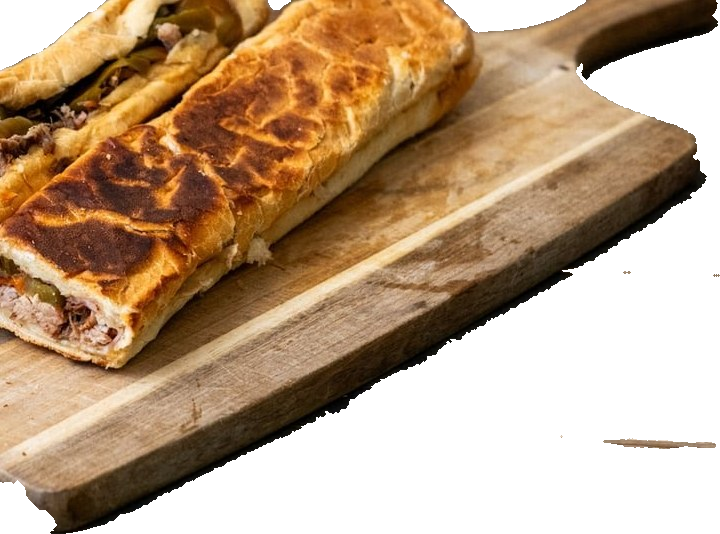
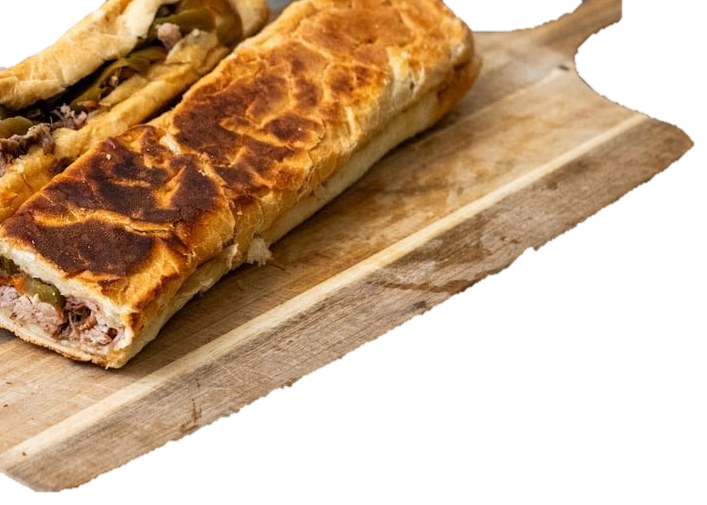
Clean the food cutouts and drop listing labels.
Rebuild the plate, board, and tray masks from the original photos so the edges stay soft and the plate and board are no longer clipped. Keep the credits in the source notes, and take the marketplace names off the page.

diff --git a/index.html b/index.html
@@ -44,11 +44,11 @@
           </div>
           <p class="hours">Call for today's hours and availability.</p>
         </div>
-        <a class="cut hero-pastry enlarge" href="photos/pastry-plate.png" data-full="photos/pastry-plate.png" data-w="1088" data-cap="Fried pastry on a blue plate. DoorDash listing photo.">
-          <img src="photos/pastry-plate.png" width="1088" height="601" alt="A fried pastry on a blue-and-white plate, cut out from the gray table.">
+        <a class="cut hero-pastry enlarge" href="photos/pastry-plate.png" data-full="photos/pastry-plate.png" data-w="1088" data-cap="Fried pastry on a blue plate.">
+          <img src="photos/pastry-plate.png" width="1088" height="601" alt="A fried pastry on a blue-and-white plate.">
         </a>
-        <a class="cut hero-board enlarge" href="photos/sandwich-board.png" data-full="photos/sandwich-board.png" data-w="720" data-cap="Toasted sandwich on a wooden board. DoorDash listing photo.">
-          <img src="photos/sandwich-board.png" width="720" height="534" alt="A toasted sandwich on a wooden board, cut out from the gray table.">
+        <a class="cut hero-board enlarge" href="photos/sandwich-board.png" data-full="photos/sandwich-board.png" data-w="707" data-cap="Toasted sandwich on a wooden board.">
+          <img src="photos/sandwich-board.png" width="707" height="505" alt="A toasted sandwich on a wooden board.">
         </a>
       </div>
       <img class="edge" src="assets/tear-cream.png" alt="">
@@ -60,33 +60,29 @@
       <a class="rect call" href="tel:+16103719767">Call the store</a>
     </section>
 
-    <section class="gold" aria-label="Food from the listing">
+    <section class="gold" aria-label="Food">
       <img class="brush" src="assets/brush-gold.png" alt="">
       <div class="floats">
-        <img class="float f-sand" src="photos/sandwich-board.png" width="720" height="534" alt="">
+        <img class="float f-sand" src="photos/sandwich-board.png" width="707" height="505" alt="">
         <img class="float f-pastry" src="photos/pastry-plate.png" width="1088" height="601" alt="">
-        <img class="float f-tray" src="photos/fries-tray.png" width="726" height="432" alt="A foil tray of fries with fried pieces and lime wedges, cut out from the gray table.">
+        <img class="float f-tray" src="photos/fries-tray.png" width="659" height="417" alt="A foil tray of fries with fried pieces and lime wedges.">
       </div>
     </section>
 
     <section class="shelf">
-      <p class="shelf-kicker">Listing photos</p>
       <h2>Santa Rita</h2>
       <div class="cards">
-        <a class="card enlarge" href="photos/pastelito-plate-doordash.jpg" data-full="photos/pastelito-plate-doordash.webp" data-w="1186" data-cap="Fried pastry. DoorDash listing photo.">
-          <img src="photos/pastelito-plate-doordash.jpg" width="1186" height="664" alt="">
+        <a class="card enlarge" href="photos/pastry-plate.png" data-full="photos/pastry-plate.png" data-w="1088" data-cap="Fried pastry on a blue plate.">
+          <img src="photos/card-pastry.png" width="300" height="300" alt="">
           <strong>Fried pastry</strong>
-          <span>DoorDash</span>
         </a>
-        <a class="card enlarge" href="photos/grilled-sandwich-board-doordash.jpg" data-full="photos/grilled-sandwich-board-doordash.webp" data-w="732" data-cap="Toasted sandwich. DoorDash listing photo.">
-          <img src="photos/grilled-sandwich-board-doordash.jpg" width="732" height="540" alt="">
+        <a class="card enlarge" href="photos/sandwich-board.png" data-full="photos/sandwich-board.png" data-w="707" data-cap="Toasted sandwich on a wooden board.">
+          <img src="photos/card-sandwich.png" width="313" height="313" alt="">
           <strong>Toasted sandwich</strong>
-          <span>DoorDash</span>
         </a>
-        <a class="card enlarge" href="photos/combo-platter-ubereats.jpg" data-full="photos/combo-platter-ubereats.webp" data-w="789" data-cap="Fries and lime. Uber Eats listing photo.">
-          <img src="photos/combo-platter-ubereats.jpg" width="789" height="432" alt="">
+        <a class="card enlarge" href="photos/fries-tray.png" data-full="photos/fries-tray.png" data-w="659" data-cap="Fries and lime.">
+          <img src="photos/card-fries.png" width="291" height="291" alt="">
           <strong>Fries and lime</strong>
-          <span>Uber Eats</span>
         </a>
       </div>
     </section>
@@ -107,14 +103,6 @@
       </div>
       <footer class="foot">
         <p>Santa Rita Grocery · <a class="call" href="tel:+16103719767">(610) 371-9767</a></p>
-        <details class="sources">
-          <summary>Photo sources</summary>
-          <ul>
-            <li>Storefront, July 2021: Madame, via Google Maps. The side sign in that photo includes a 24/7 line.</li>
-            <li>Fried pastry and toasted sandwich: DoorDash listing photos. Fries and lime: an Uber Eats listing photo. The gray table behind them was removed; the food itself was not redrawn.</li>
-            <li>These pictures are not a menu and not a promise of what is ready today. Call for today's hours and availability. A Google listing has said the store is open 24 hours; that is not confirmed here.</li>
-          </ul>
-        </details>
       </footer>
     </section>
   </div>

diff --git a/sources/NOTES.md b/sources/NOTES.md
@@ -19,14 +19,16 @@ The poster’s burgers, pizza, garnish drawings, logo, prices, and Order button 
 
 ## Photos
 
-Gray table pixels were removed from the three food pictures. The pastry, sandwich, board, and foil tray pixels were not redrawn. A few thin table marks can remain. Round cards use the original files, cropped in a circle.
+The page does not show marketplace names or a photo-credit list. Those credits stay in this file. No license was documented for the pictures, so none was added to the page. The font license files stay in `fonts/`.
 
-- Pastry plate, DoorDash, 1088×601 cutout from 1186×664.
-- Sandwich on a board, DoorDash, 720×534 cutout from 732×540.
-- Fries tray, Uber Eats, 726×432 cutout from 789×432.
-- Storefront, Madame, Google Maps, July 2021, 1060×578, shown only in the address block.
+The food pixels come from the listing photos in `sources/originals/`. They were not redrawn. The gray table was removed with a mask only: the plate follows its ceramic rim, and the board and foil tray follow their own outlines. Edges are a one-pixel fade of those same pixels. The round cards are tight crops of those cutouts, not a new drawing.
 
-They are listing screenshots, not owner photos. A license was not verified. The longer note, including the unconfirmed 24-hour listing, is under Photo sources.
+- Pastry plate, from `sources/originals/pastelito-plate-doordash.jpg`, 1186×664. Shown cutout 1088×601.
+- Sandwich on a board, from `sources/originals/grilled-sandwich-board-doordash.jpg`, 732×540. Shown cutout 707×505. The left end is cut off in that photo.
+- Fries and lime, from `sources/originals/combo-platter-ubereats.jpg`, 789×432. Shown cutout 659×417.
+- Storefront, Madame, Google Maps, July 2021, 1060×578, shown only in the address block. The side sign in that photo includes a 24/7 line. That line is not confirmed here.
+
+These pictures are not a menu and not a promise of what is ready today. Call for today's hours and availability. A Google listing has said the store is open 24 hours; that is not confirmed here.
 
 ## Test
 

diff --git a/sources/TEST-RESULTS.md b/sources/TEST-RESULTS.md
@@ -2,7 +2,7 @@
 
 No failures.
 
-- ["pastry-plate.png:1088x420","sandwich-board.png:720x520","tear-cream.png:2000x768","brush-gold.png:2000x800","sandwich-board.png:720x261","pastry-plate.png:1088x292","fries-tray.png:726x261","pastelito-plate-doordash.jpg:1186x112","grilled-sandwich-board-doordash.jpg:732x112","combo-platter-ubereats.jpg:789x112","tear-red.png:2000x800","storefront-madame-google-maps.jpg:1060x520"]
+- ["pastry-plate.png:1088x420","sandwich-board.png:707x520","tear-cream.png:2000x768","brush-gold.png:2000x800","sandwich-board.png:707x261","pastry-plate.png:1088x292","fries-tray.png:659x261","card-pastry.png:300x112","card-sandwich.png:313x112","card-fries.png:291x112","tear-red.png:2000x800","storefront-madame-google-maps.jpg:1060x520"]
 - c .y 9.09/3
 - c .w 14.23/3
 - c .lede 14.23/4.5
